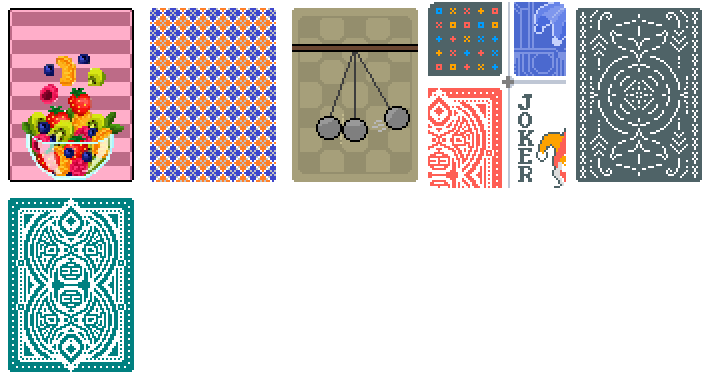
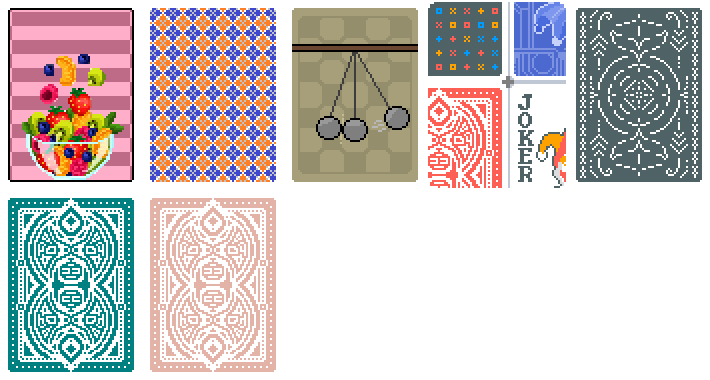
Add 2 new Joker + a new deck

Changed region(s): [[0.1859, 0.5211, 0.4028, 0.9842]]

diff --git a/README.md b/README.md
@@ -15,13 +15,13 @@
 <hr>
 <h2>Contents</h2>
 <ul>
-    <li>51+ Jokers (+11 Cross-Mod)</li>
+    <li>53+ Jokers (+11 Cross-Mod)</li>
     <li>34 Food cards (+6 Cross-Mod)</li>
     <li>17 Seals</li>
     <li>16 Planets</li>
     <li>10+ Enhancements</li>
+    <li>7 Decks</li>
     <li>6 Spectrals</li>
-    <li>6 Decks</li>
     <li>5 Overcharges</li>
     <li>4 Booster Packs</li>
     <li>4 Vouchers</li>
